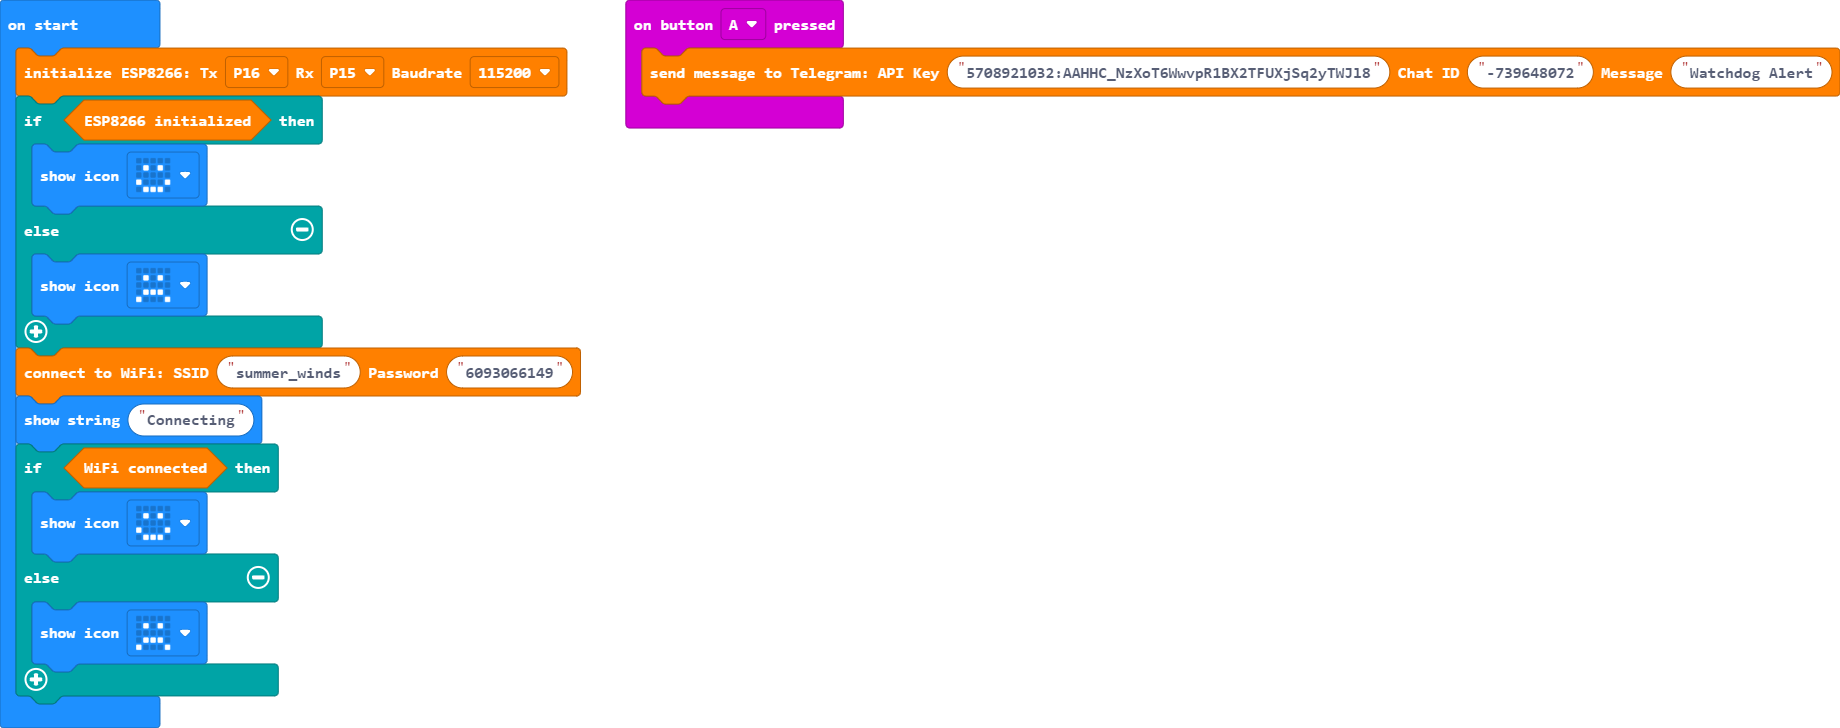
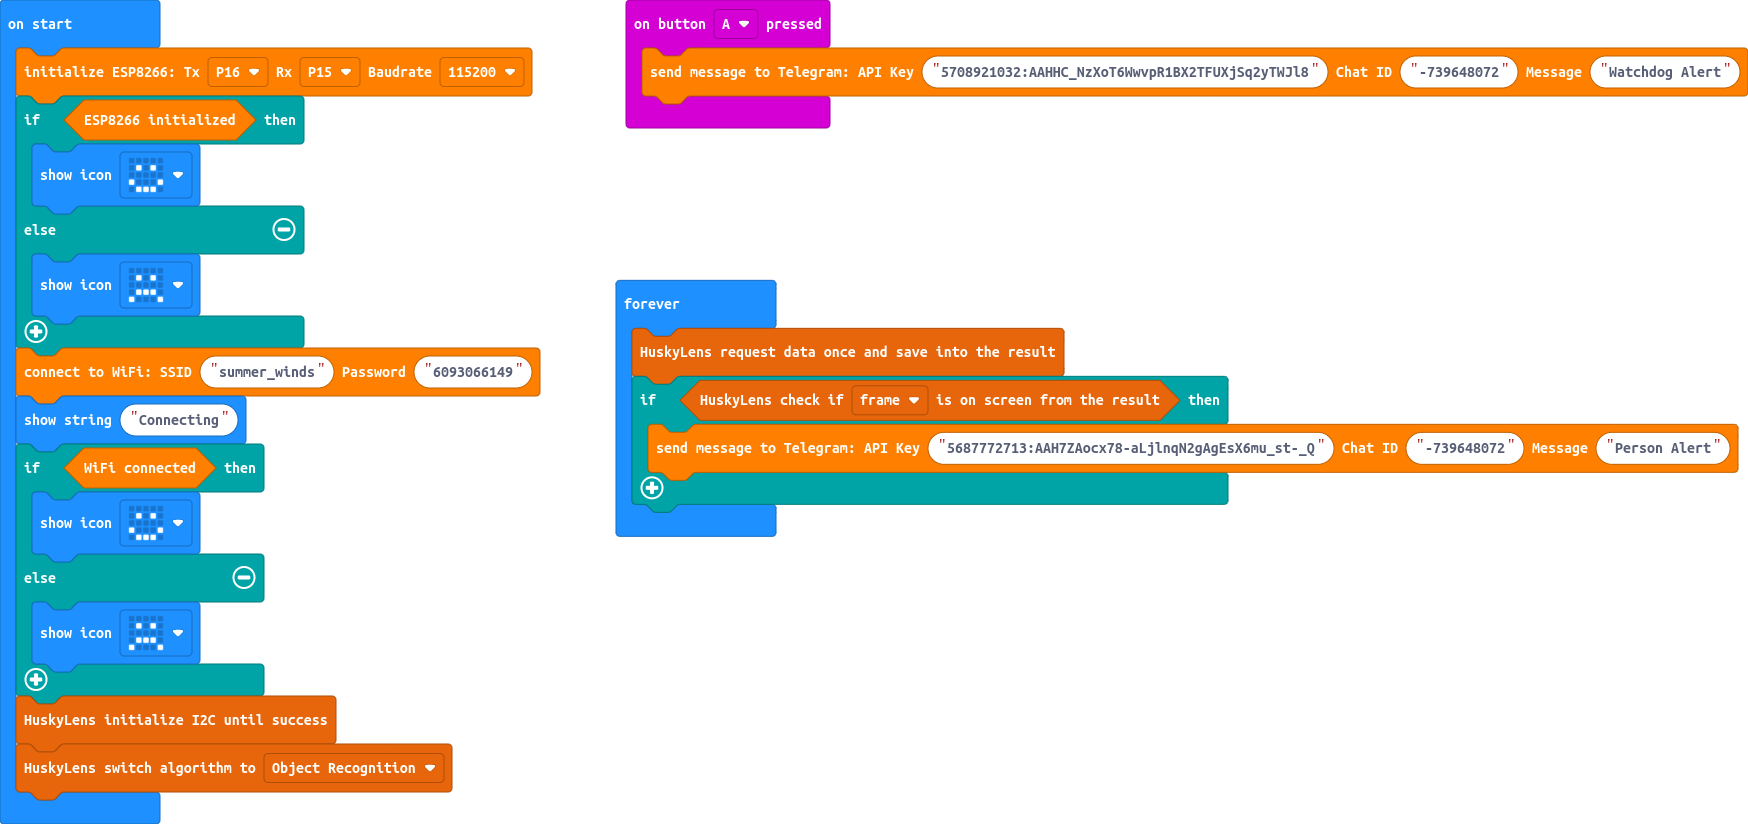
Update main.blocks, main.ts

Changed region(s): [[0.0, 0.0, 1.0, 1.0], [0.3398, 0.0, 1.0, 0.1813]]

diff --git a/main.ts b/main.ts
@@ -14,3 +14,11 @@ if (esp8266.isWifiConnected()) {
 } else {
     basic.showIcon(IconNames.Sad)
 }
+huskylens.initI2c()
+huskylens.initMode(protocolAlgorithm.ALGORITHM_OBJECT_RECOGNITION)
+basic.forever(function () {
+    huskylens.request()
+    if (huskylens.isAppear_s(HUSKYLENSResultType_t.HUSKYLENSResultBlock)) {
+        esp8266.sendTelegramMessage("5687772713:AAH7ZAocx78-aLjlnqN2gAgEsX6mu_st-_Q", "-739648072", "Person Alert")
+    }
+})
